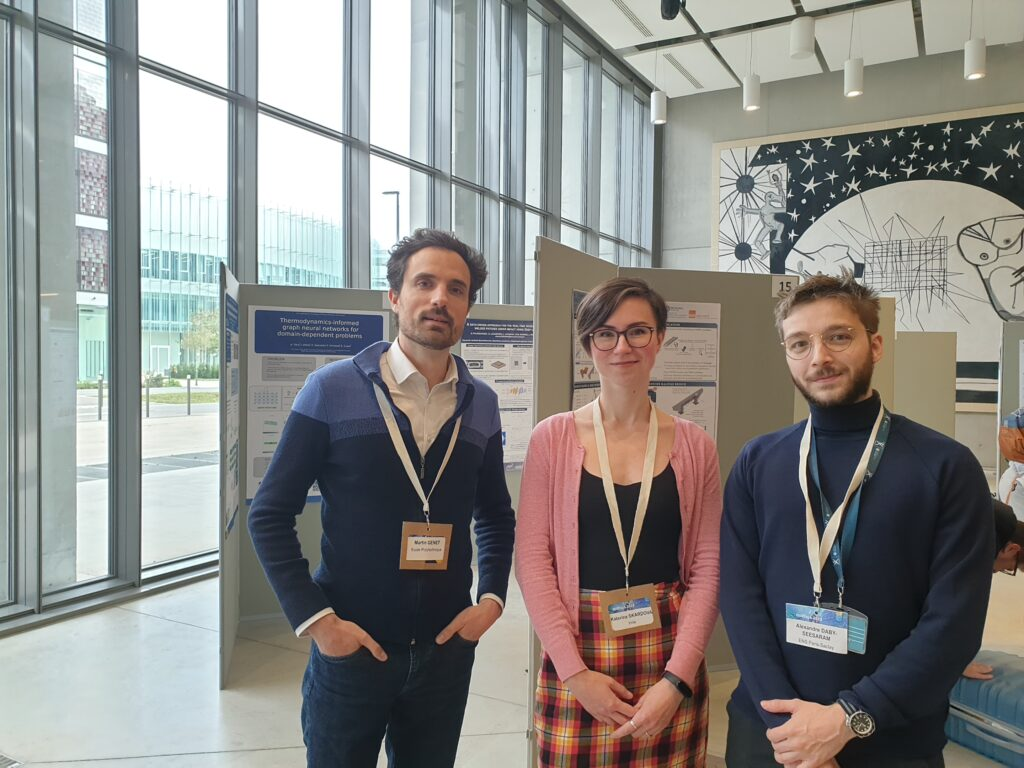
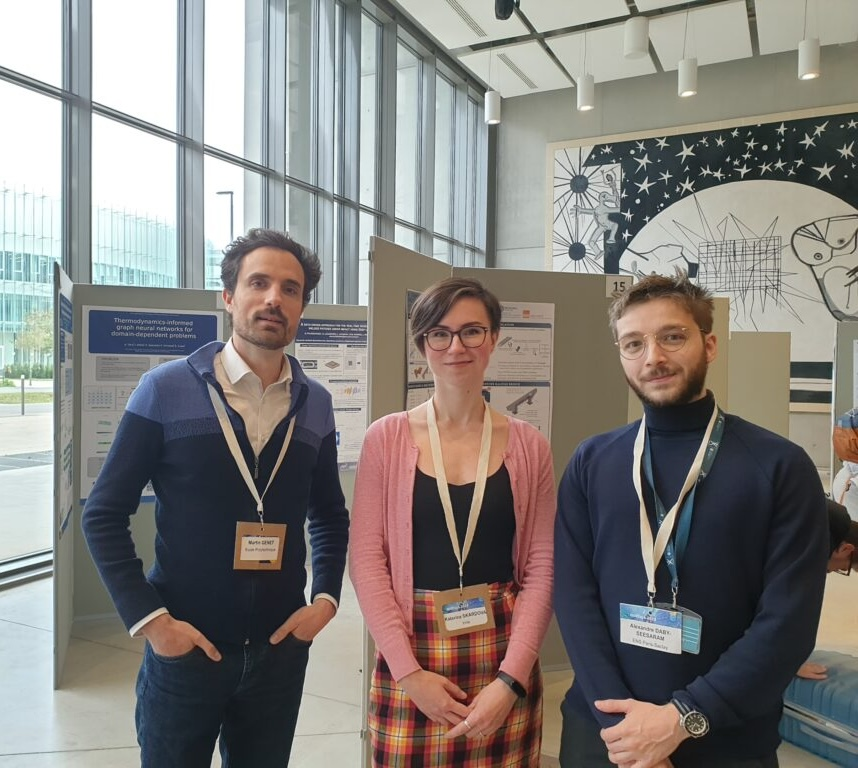
Better centering of thumbnails

diff --git a/styles.css b/styles.css
@@ -1,1 +1,32 @@
 /* css styles */
+
+/* News listing thumbnails: force a consistent crop instead of letting
+   Quarto stretch images of varying aspect ratios to a fixed height. */
+div.quarto-post {
+  /* Guarantee breathing room around the separator line, regardless of
+     whether the thumbnail or the text ends up being the taller column. */
+  padding-top: 0.6em;
+  padding-bottom: 0.6em;
+}
+
+div.quarto-post .thumbnail {
+  display: flex;
+  align-items: center;
+}
+
+/* Without this, the <a> wrapping the image is a flex item with
+   flex-grow: 0, so it shrinks to the image's natural width instead of
+   filling the column when the source image is narrower than the column. */
+div.quarto-post .thumbnail > a {
+  width: 100%;
+}
+
+div.quarto-post .thumbnail img.thumbnail-image {
+  width: 100%;
+  height: auto;
+  aspect-ratio: 4 / 3;
+  object-fit: cover;
+  object-position: center;
+  margin-top: 0.4em;
+  margin-bottom: 0.4em;
+}

diff --git a/scripts/apply_image_position.py b/scripts/apply_image_position.py
@@ -1,0 +1,69 @@
+#!/usr/bin/env python3
+from __future__ import annotations
+"""
+Quarto post-render hook: applies a per-post `image-position` front-matter
+field (e.g. "top", "20% 80%") as an inline `object-position` style on that
+post's thumbnail <img> in the rendered listing pages (e.g. news.html).
+
+Quarto's default listing template has no per-item hook for this, so this
+patches the already-rendered HTML in `_site/` instead of touching Quarto's
+internal listing templates.
+"""
+import glob
+import re
+from pathlib import Path
+
+FRONT_MATTER_RE = re.compile(r"^---\n(.*?)\n---\n", re.S)
+FIELD_RE_TEMPLATE = r'^{field}:\s*"?([^"\n]+?)"?\s*$'
+IMG_TAG_RE = re.compile(r"<img\b[^>]*>")
+
+
+def read_front_matter_field(post_file: Path, field: str) -> str | None:
+    text = post_file.read_text(encoding="utf-8")
+    match = FRONT_MATTER_RE.match(text)
+    if not match:
+        return None
+    field_match = re.search(
+        FIELD_RE_TEMPLATE.format(field=re.escape(field)), match.group(1), re.M
+    )
+    return field_match.group(1).strip() if field_match else None
+
+
+def patch_html_file(html_file: Path, positions: dict[str, str]) -> None:
+    html = html_file.read_text(encoding="utf-8")
+
+    def patch_img(match: re.Match) -> str:
+        tag = match.group(0)
+        if 'class="thumbnail-image"' not in tag or "style=" in tag:
+            return tag
+        for post_dir, position in positions.items():
+            if f"/{post_dir}/" in tag:
+                return tag.replace(
+                    "<img ", f'<img style="object-position: {position};" ', 1
+                )
+        return tag
+
+    patched = IMG_TAG_RE.sub(patch_img, html)
+    if patched != html:
+        html_file.write_text(patched, encoding="utf-8")
+
+
+def main() -> None:
+    positions = {}
+    for post_file in glob.glob("posts/**/index.md", recursive=True) + glob.glob(
+        "posts/**/index.qmd", recursive=True
+    ):
+        post_path = Path(post_file)
+        position = read_front_matter_field(post_path, "image-position")
+        if position:
+            positions[post_path.parent.name] = position
+
+    if not positions:
+        return
+
+    for html_file in glob.glob("_site/**/*.html", recursive=True):
+        patch_html_file(Path(html_file), positions)
+
+
+if __name__ == "__main__":
+    main()

diff --git a/posts/2026/2026-08-17 - adrian-buganza-tepole/index.md b/posts/2026/2026-08-17 - adrian-buganza-tepole/index.md
@@ -4,6 +4,7 @@ date: "2026-08-17"
 categories: 
   - "News"
 image: "adrian.jpg"
+image-position: "top"
 ---
 
 [Adrian Buganza Tepole](https://www.me.columbia.edu/adrian-buganza-tepole), Associate Professor in the [Department of Mechanical Engineering](https://me.columbia.edu) at [Columbia University](https://www.columbia.edu), is joining us as a Visiting Professor at [École Polytechnique](https://www.polytechnique.edu) in the [Solid Mechanics Laboratory](https://lms.ip-paris.fr) (LMS).

diff --git a/posts/2023/2023-10-01 - katka-skardova-joins-the-team/index.md b/posts/2023/2023-10-01 - katka-skardova-joins-the-team/index.md
@@ -4,6 +4,7 @@ date: "2023-10-01"
 categories:
   - "News"
 image: "IMG_0554b-1.jpg"
+image-position: "top"
 ---
 
 [Kateřina Škardová](https://www.linkedin.com/in/kate%C5%99ina-%C5%A1kardov%C3%A1-a1a7b4142), who recently defended her PhD at the Department of Mathematics of Czech Technical University in Prague, is starting as a postdoc in the team.

diff --git a/posts/2024/2024-01-01 - alexandre-daby-seesaram-joins-the-team/index.md b/posts/2024/2024-01-01 - alexandre-daby-seesaram-joins-the-team/index.md
@@ -4,6 +4,7 @@ date: "2024-01-01"
 categories:
   - "News"
 image: "alexandre.jpg"
+image-position: "top"
 ---
 
 [Alexandre Daby-Seesaram](https://alexandredabyseesaram.github.io), who recently defended his PhD at the Paris-Saclay Mechanics Laboratory of École Normale Supérieure de Paris-Saclay, is starting as a postdoc in the team.

diff --git a/posts/2024/2024-10-01 - haotian-xiao-joins-the-team/index.md b/posts/2024/2024-10-01 - haotian-xiao-joins-the-team/index.md
@@ -4,6 +4,7 @@ date: "2024-10-01"
 categories:
   - "News"
 image: "haotian.png"
+image-position: "50% 25%"
 ---
 
 Haotian Xiao, who graduated from _École Centrale de Pékin_ (China) and holds a Master from the _École Nationale des Ponts et Chaussées_ (ENPC, France), just started his PhD in the team.

diff --git a/posts/2024/2024-09-02 - felipe-alvarez-barrientos-joins-the-team/index.md b/posts/2024/2024-09-02 - felipe-alvarez-barrientos-joins-the-team/index.md
@@ -4,6 +4,7 @@ date: "2024-09-02"
 categories:
   - "News"
 image: "felipe.jpg"
+image-position: "50% 33%"
 ---
 
 Felipe Álvarez-Barrientos, who holds a Master of Science in Engineering from the _Pontificia Universidad Católica de Chile_ in Santiago, just started his PhD in the team.

diff --git a/posts/2023/2023-07-05 - m3disim-e4h-2/index.md b/posts/2023/2023-07-05 - m3disim-e4h-2/index.md
@@ -4,6 +4,7 @@ date: "2023-07-05"
 categories: 
   - "News"
 image: "images/20230705_170030-e1688639685260.jpg"
+image-position: "top"
 ---
 
 Today we were present at [the second E4H forum](https://www.ip-paris.fr/en/news/engineering-health-annual-forum-2023):
